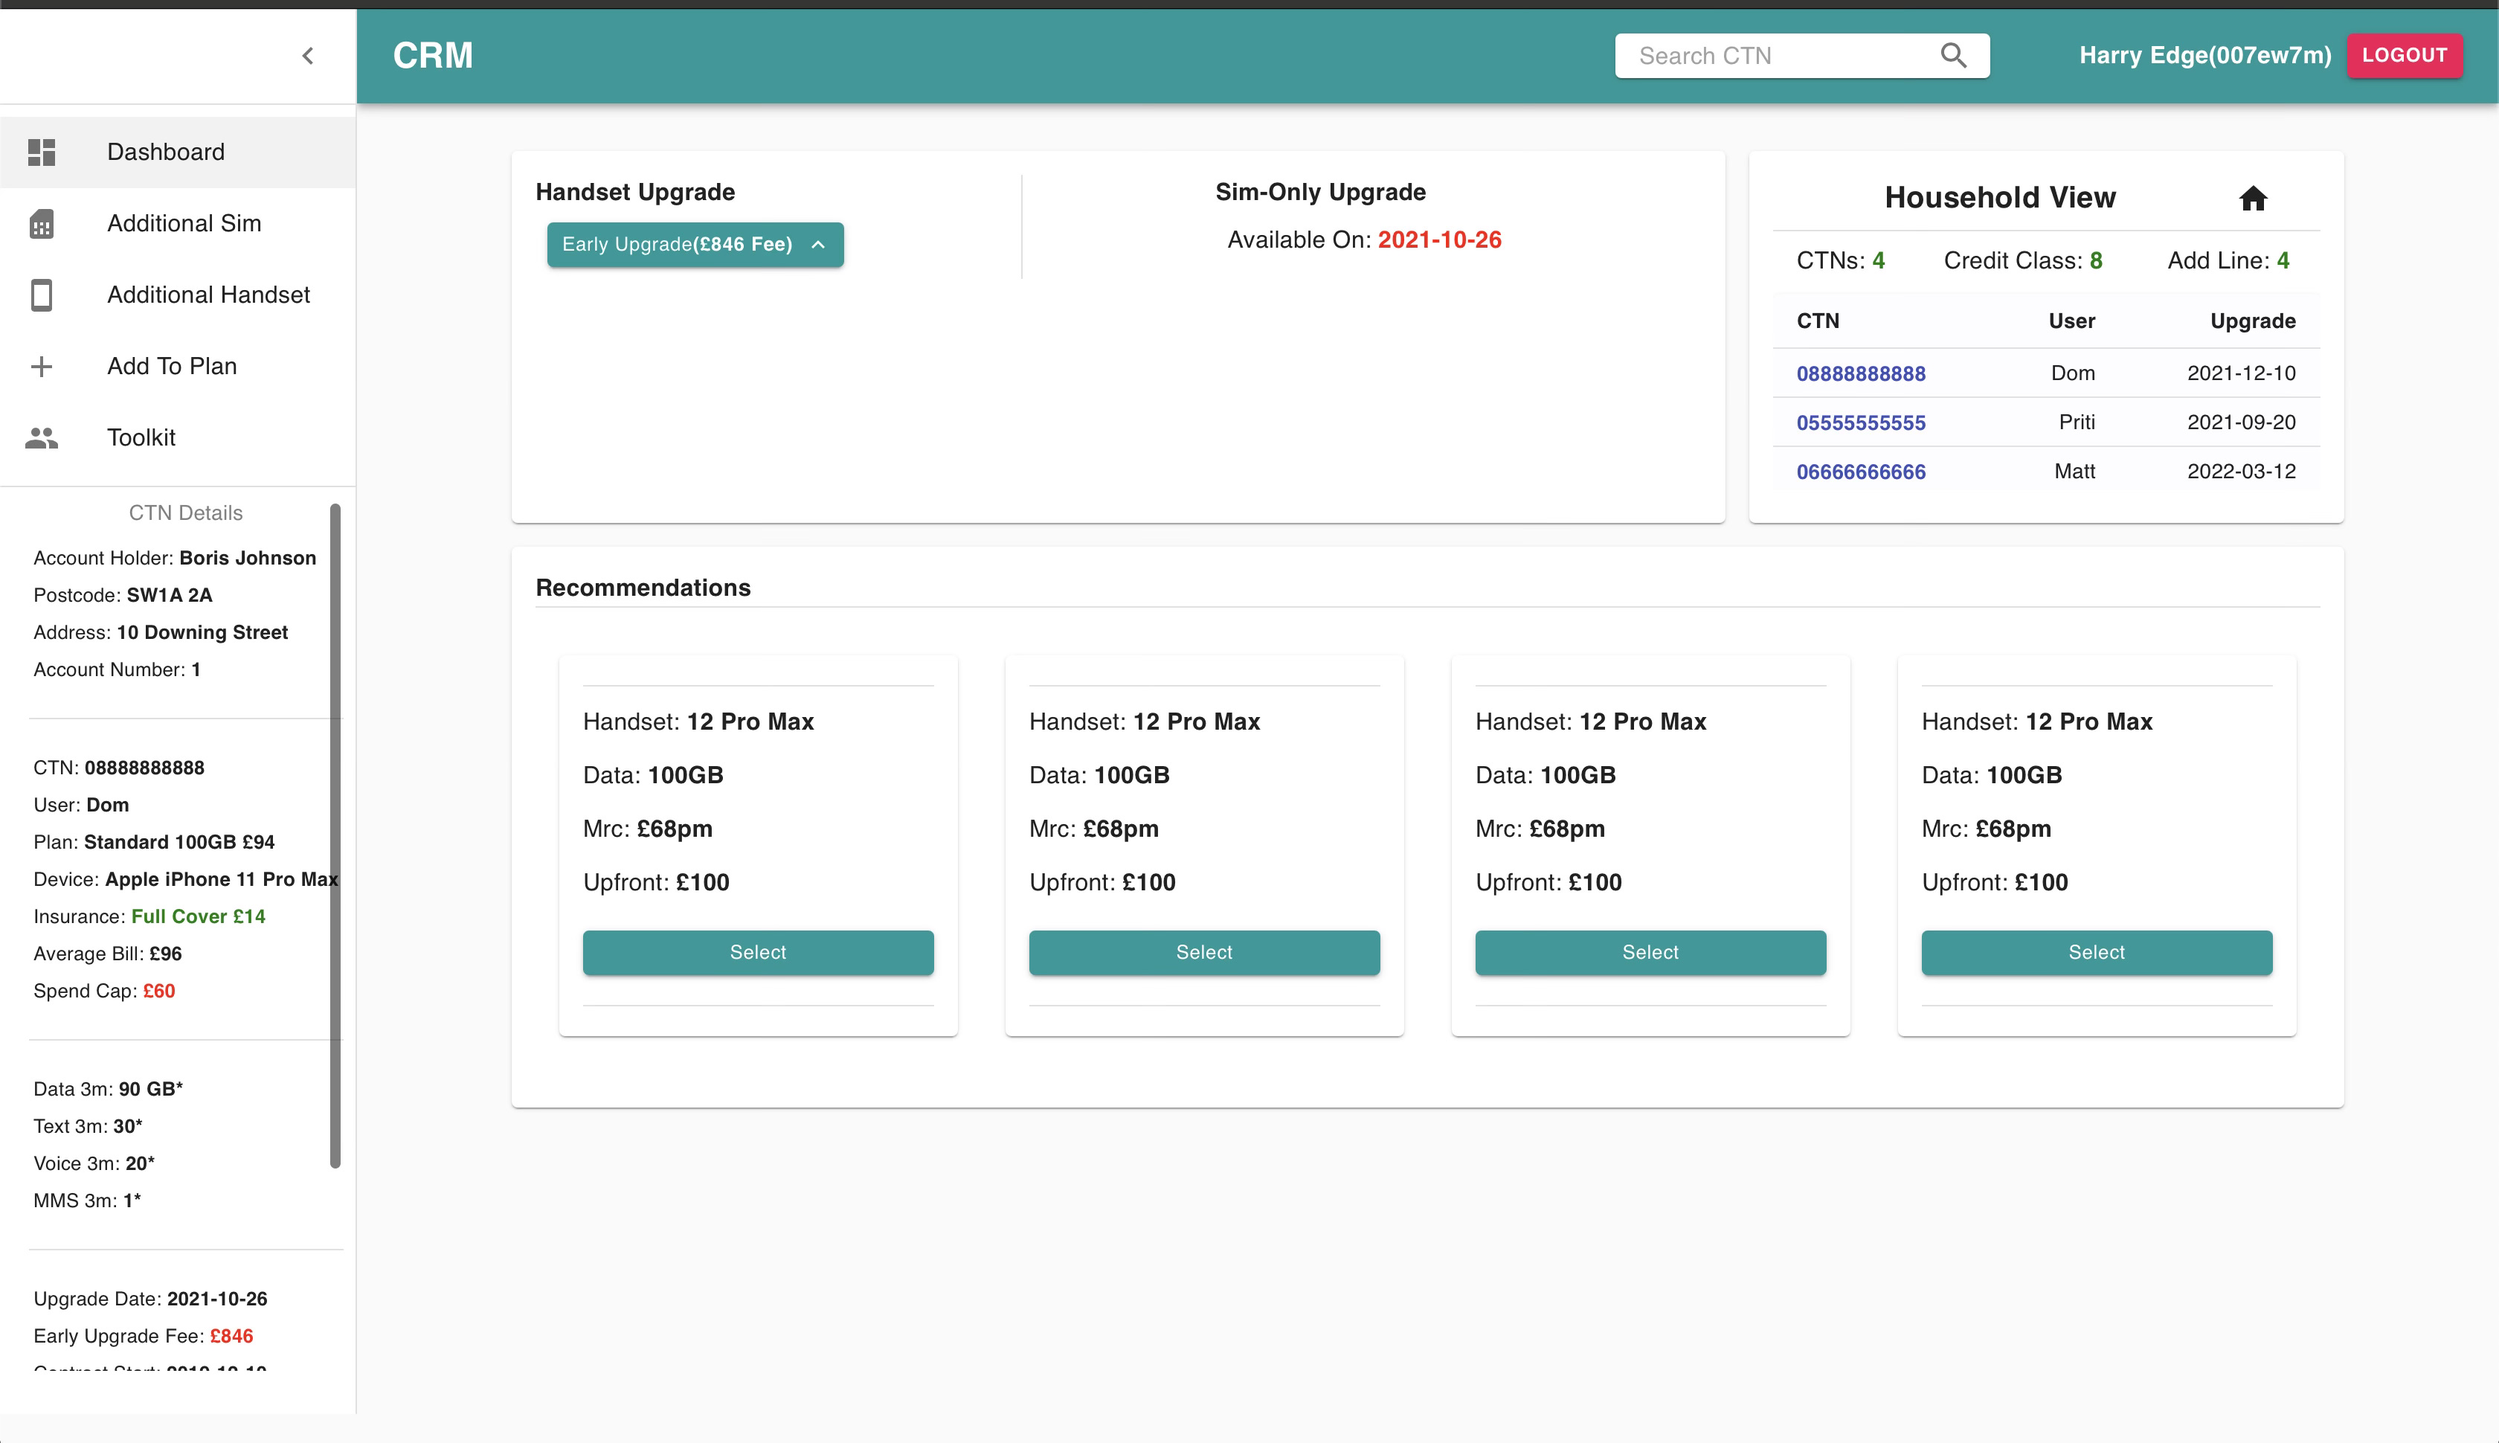
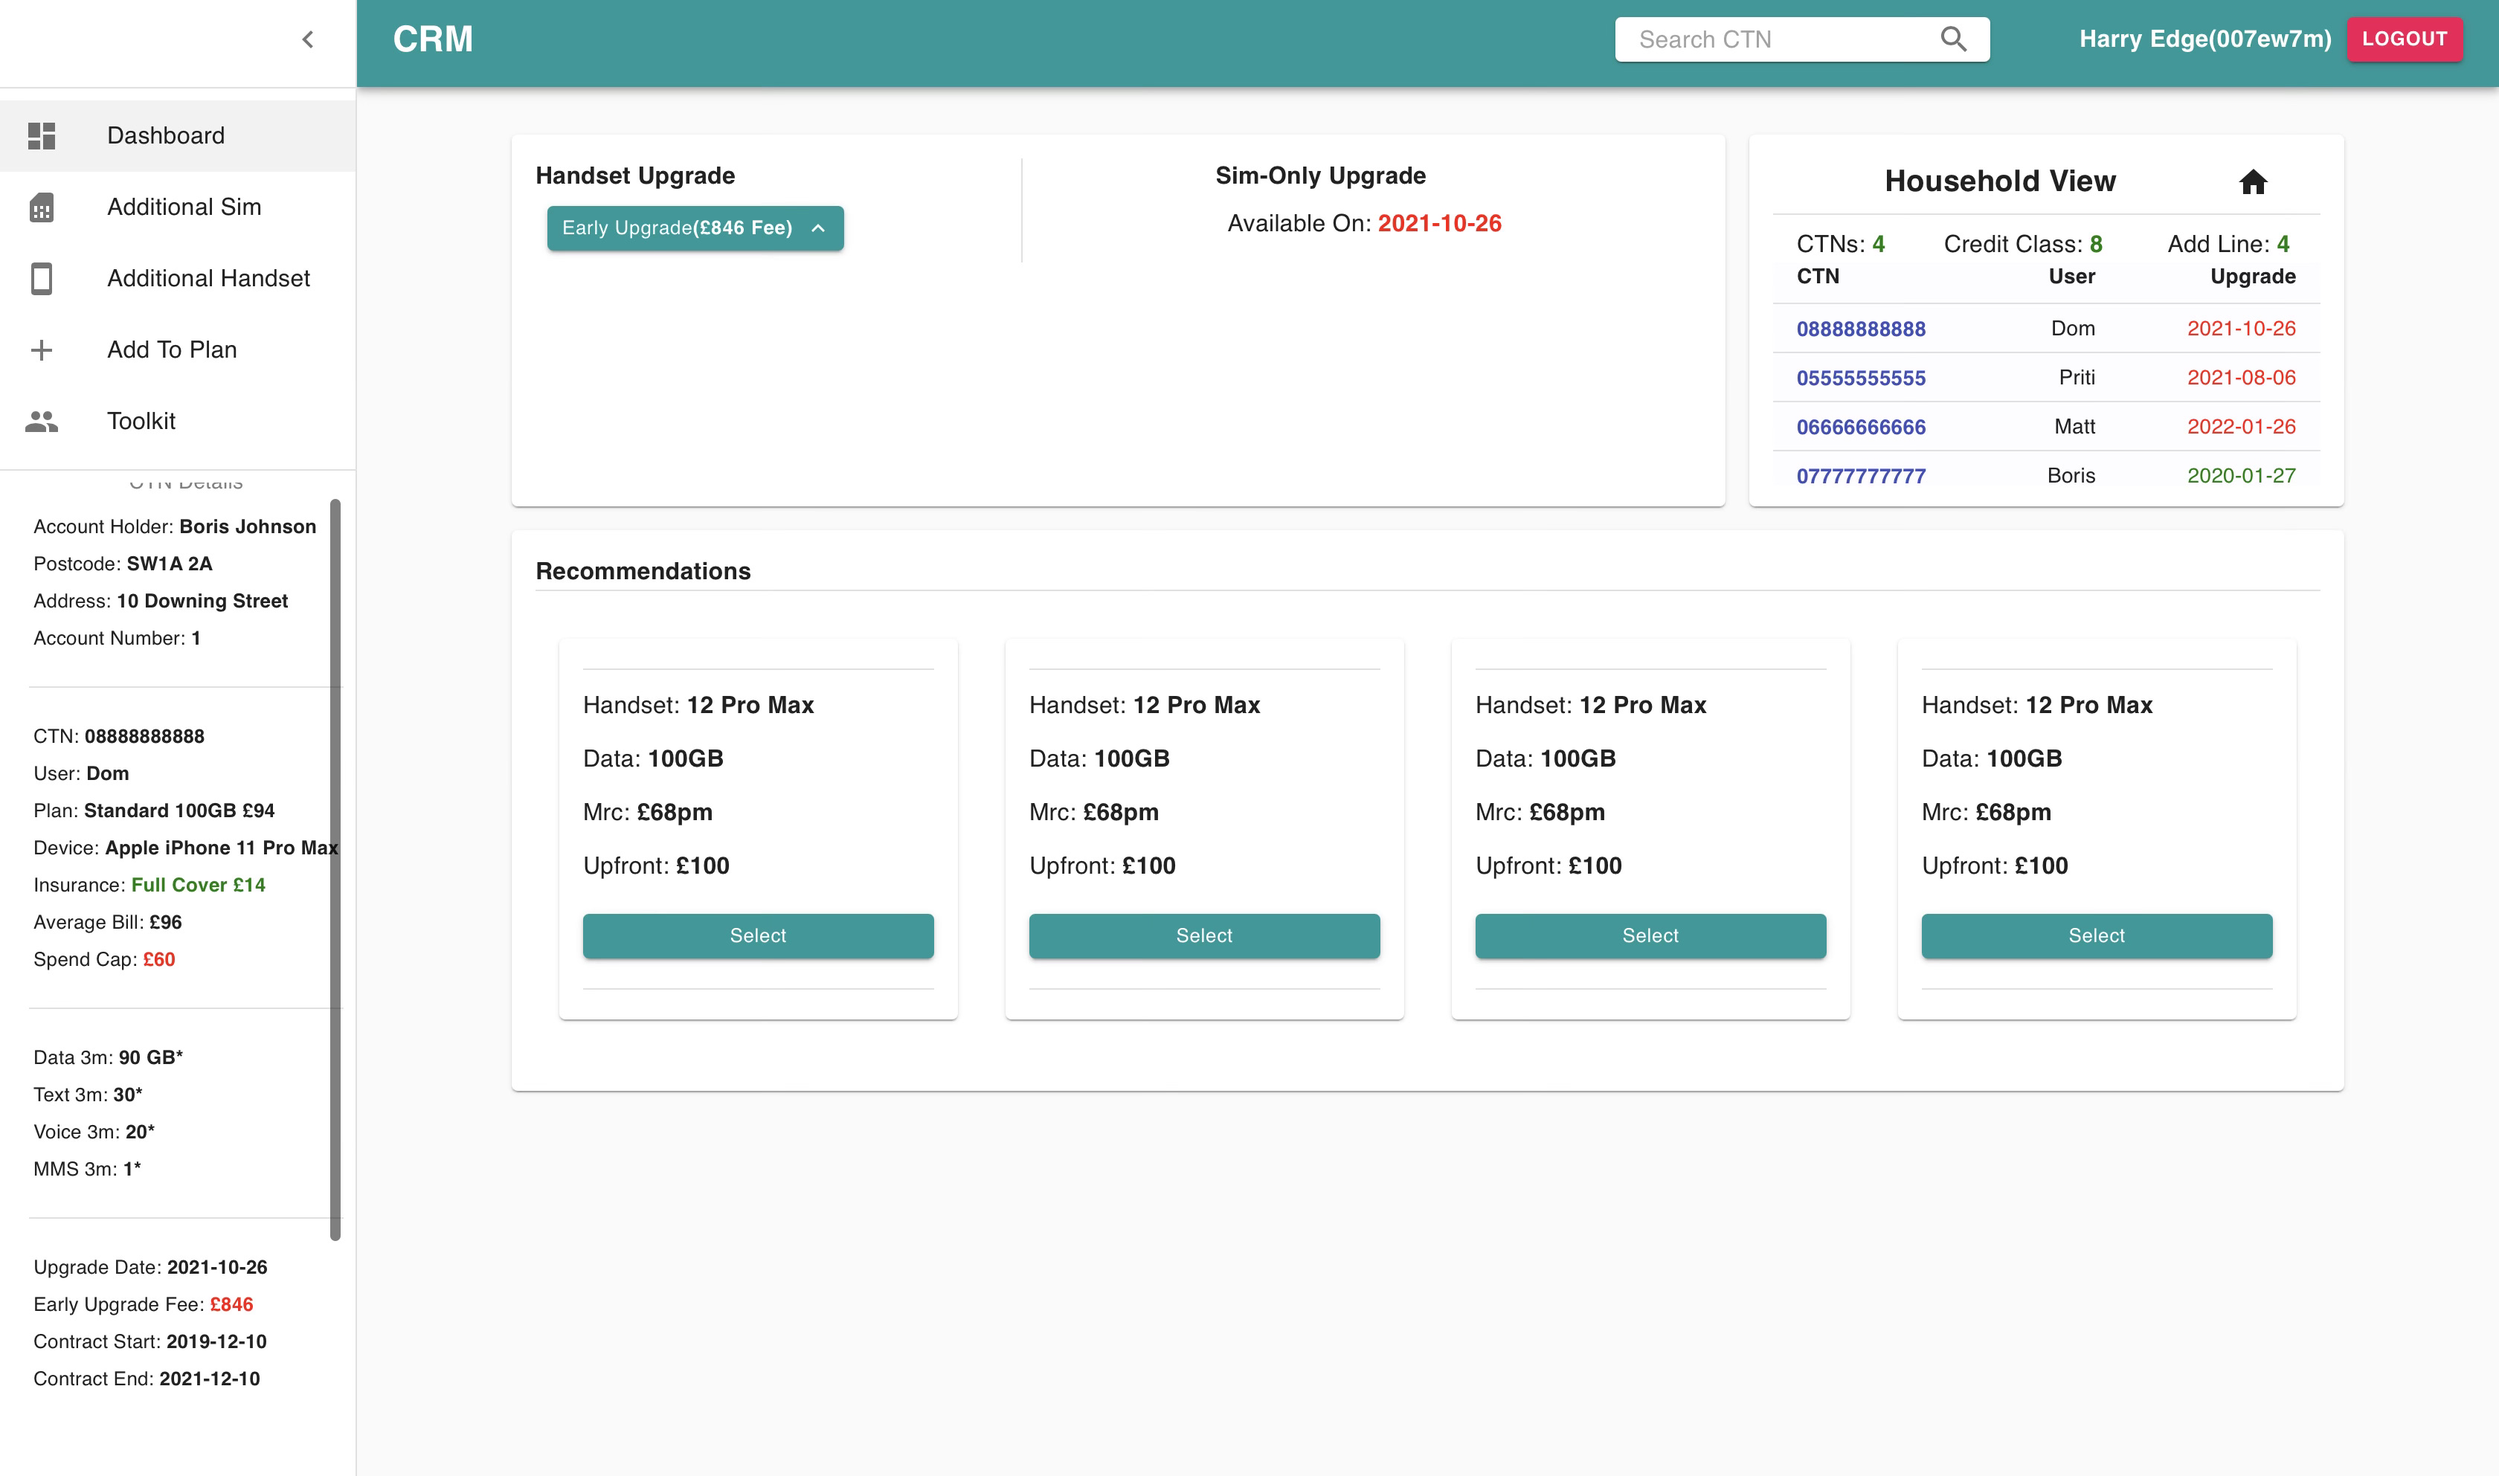
updated household view and sample images

diff --git a/frontend/src/components/HouseholdView.js b/frontend/src/components/HouseholdView.js
@@ -58,6 +58,20 @@ const styles = () => ({
 class HouseholdView extends Component {
 
 
+    componentDidMount() {
+        this.handleUpgradeDateColour()
+    }
+
+    handleUpgradeDateColour = (line) => {
+        if (line <= 0){
+            return this.props.classes.textSuccess
+        }else if (line <= 100){
+            return this.props.classes.textWarning
+        }else {
+            return this.props.classes.textDanger
+        }
+    }
+    
     render() {
 
         const {classes, customer, otherLines} = this.props
@@ -99,11 +113,12 @@ class HouseholdView extends Component {
                                     <TableBody>
                                         {
                                             otherLines.map((otherLine, index) => {
+                                                const colour = this.handleUpgradeDateColour(otherLine.days_remaining)
                                                 return (
                                                         <TableRow hover={true} key={index}>
                                                             <TableCell className={classes.tableHeading}><Link onClick={() => {this.props.onNewCTNClicked(otherLine.number)}}>{otherLine.number}</Link></TableCell>
                                                             <TableCell align='right'>{otherLine.user}</TableCell>
-                                                            <TableCell align='right'>{otherLine.contract_end}</TableCell>
+                                                            <TableCell className={colour} align='right'>{otherLine.upgrade_date}</TableCell>
                                                         </TableRow>
                                                 )
                                             })

diff --git a/api/views.py b/api/views.py
@@ -26,15 +26,20 @@ class GetCustomer(APIView):
             mobile_number_object = MobileNumber.objects.get(number=serializer.data.get('number'))
             customer_object = Customer.objects.get(id=mobile_number_object.customer.id)
 
+            def get_other_lines():
+                """
+                Get all the other lines the customer has and also adds the upgrade data and days remaining
+                """
+                other_lines = []
+                for line in customer_object.mobilenumber_set.all().values():
+                    other_lines.append(line)
+                for count, line in enumerate(customer_object.mobilenumber_set.all()):
+                    date_cal = date_calculations.DateTimeCalculations(line)
+                    current_other_line_dic = other_lines[count]
+                    current_other_line_dic['upgrade_date'] = date_cal.calculate_upgrade_date()
+                    current_other_line_dic['days_remaining'] = date_cal.calculate_days_remaining()
 
-            other_lines = customer_object.mobilenumber_set.all()
-            for count, line in enumerate(other_lines):
-                print(line)
-                print(count)
-                cal = date_calculations.DateTimeCalculations(line)
-                print(cal.calculate_upgrade_date())
-
-            other_lines = other_lines.values()
+                return other_lines
 
 
             date_cal = date_calculations.DateTimeCalculations(mobile_number_object)
@@ -49,7 +54,7 @@ class GetCustomer(APIView):
             mobile_account['insurance_option'] = mobile_number_object.insurance_option.insurance_name
             customer['total_lines'] = customer_object.mobilenumber_set.all().count()
 
-            data = {'mobile_account': mobile_account, 'customer': customer, 'other_lines': other_lines}
+            data = {'mobile_account': mobile_account, 'customer': customer, 'other_lines': get_other_lines()}
 
             return Response(data, status=status.HTTP_200_OK)
         return Response('Error', status=status.HTTP_400_BAD_REQUEST)
